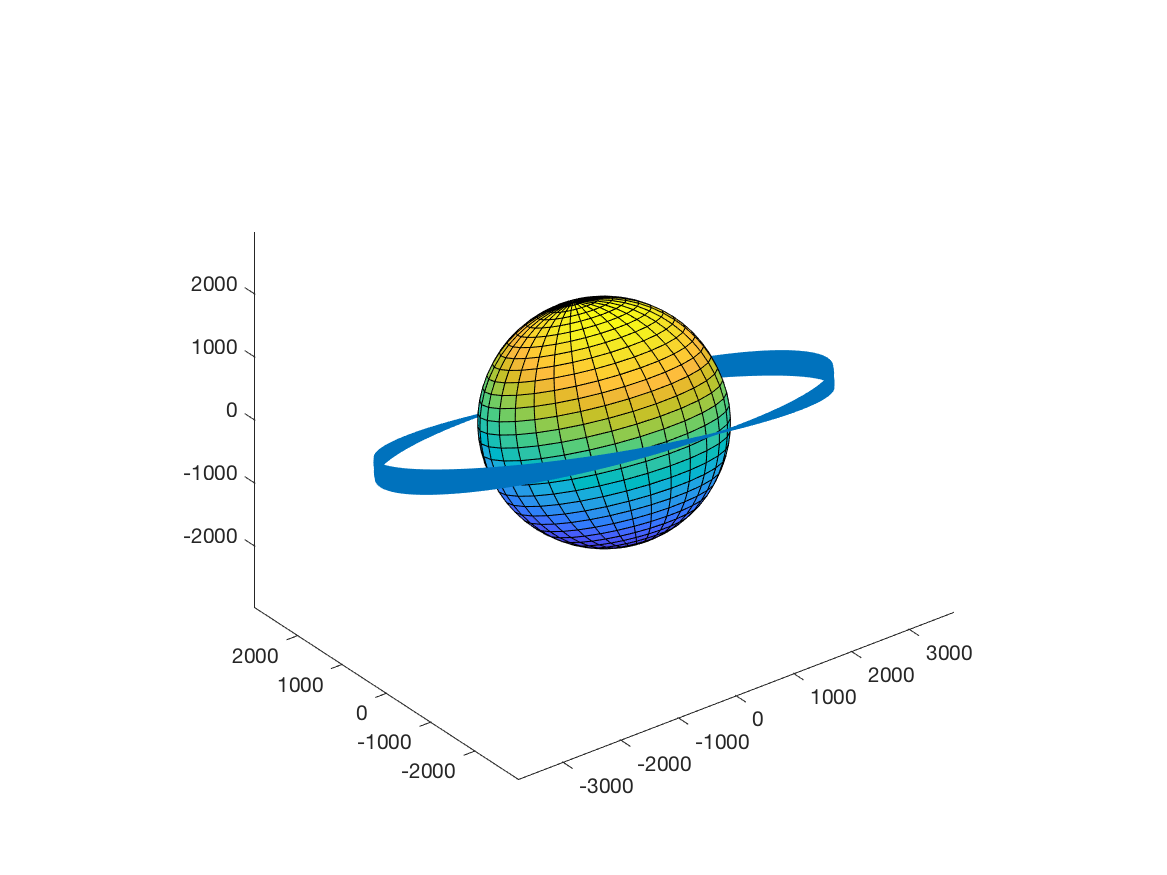
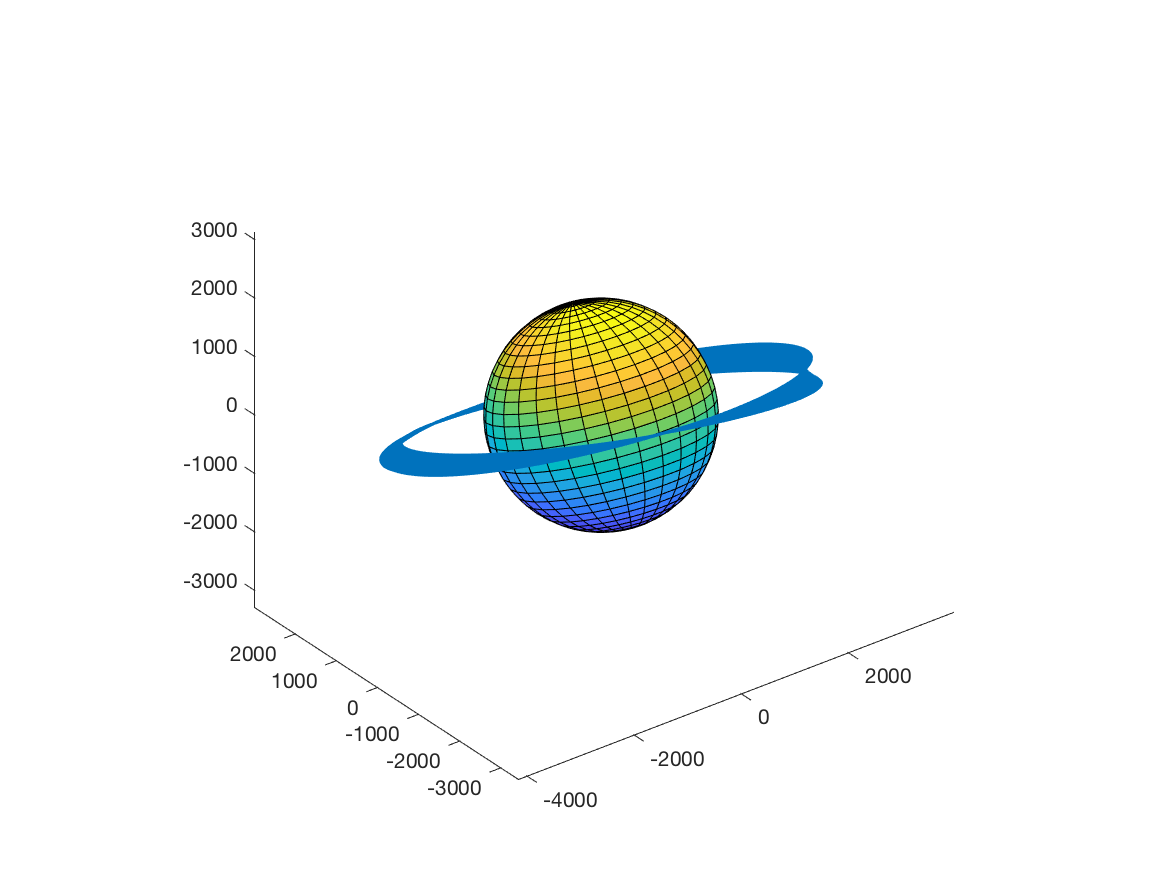
Added SRP force

diff --git a/sim_motion.m b/sim_motion.m
@@ -3,7 +3,7 @@ clear;
 close all;
 
 %Initial conditions
-global rho mu_m PM Re mu_e J_E J_M Fx Fy Fz MR;
+global rho mu_m PM Re mu_e J_E J_M Fx Fy Fz MR sa_A;
 % Planet Masses
 SM = 1.989e30;
 MerM = 330.2e21;
@@ -29,9 +29,10 @@ mu_e = G*EM;
 mu_m = 4902.80011526323;
 mu_s = G*SM;
 Re = 6378;
+sa_A = 625; %m2, area of solar array on DSG (1/4 ISS solar area area)
 
-global maint dvTime ref_r ref_i dv_sum dvMag dvType dv_count last_burn avg_rs avg_is;
-maint = 0; %enable to maintain the equatorial circular orbit around the Moon
+global maint dvTime ref_r ref_i dv_sum dvMag dvType dv_count last_burn avg_rs avg_is avg_es;
+maint = 1; %enable to maintain the equatorial circular orbit around the Moon
 dvTime = [];
 dvMag = [];
 dvType = [];
@@ -42,6 +43,7 @@ dv_count = 0;
 last_burn = 0;
 avg_rs = zeros(1,10);
 avg_is = zeros(1,10);
+avg_es = zeros(1,10);
 
 if (maint)
     mt = 'maint';
@@ -61,8 +63,8 @@ J5_M = 2.2378531356778999e-07;
 J_M = [J2_M,J3_M,J4_M,J5_M];
 
 N = 1000;
-te = 86400*180;
-%te = 86400*365.25;
+%te = 86400*180;
+te = 86400*310;
 dt = 60;
 options = odeset('AbsTol',1e-9,'RelTol',1e-7);
 
@@ -264,8 +266,8 @@ ylabel('Velocity (km/s)');
 fname = sprintf('Plots/%s_r_e_i_v_%i.png',mt,round(te/86400));
 print(fname,'-dpng');
 
-tofs = linspace(3*86400,10*86400,20);
-times = 1:2880:length(T_J);
+tofs = linspace(3*86400,10*86400,10);
+times = 1:(5*86400/60):length(T_J);
 [X,Y] = meshgrid(T_J(times),tofs);
 %Define circular parking orbit, 200 km altitude
 ri = Re + 200;
@@ -277,6 +279,7 @@ ri_J = Op_g*ri_p;
 vi_p = Op_g*vi_p;
 
 satdvs = zeros(size(Y));
+fprintf('Generating Earth to DSV delta-V matrix\n');
 for k = 1:size(X,2)
     for j = 1:size(Y,1)
         %Calculate Earth to DSG delta-V
@@ -284,16 +287,21 @@ for k = 1:size(X,2)
         indx = times(k);
         rdsg = Sat_X(indx,:) - Earth_X(indx,:);
         sv = Sat_V(indx,:) - Earth_V(indx,:);
-        [Vi,Vf] = lambertProblemBasicSolution(mu_e,ri_J',rdsg,Y(j));
+        try
+            [Vi,Vf] = lambertProblemBasicSolution(mu_e,ri_J',rdsg,Y(j));
+        catch
+            fprintf('1 TOF: %.3f\n',Y(j));
+        end
         satdvs(j,k) = abs(norm(Vi) - norm(vi_p)) + abs(norm(Vf) - norm(sv));
     end
 end
 
-tofs = linspace(0.5*365.25*86400,1.5*365.25*86400,100);
-times = 1:2880:length(T_J);
+tofs = linspace(0.5*365.25*86400,1.5*365.25*86400,50);
+times = 1:(5*86400/60):length(T_J);
 [X2,Y2] = meshgrid(T_J(times),tofs);
 emdvs = zeros(size(Y2));
 mmdvs = zeros(size(Y2));
+fprintf('Generating Earth to Mars and DSG to Mars delta-V matrices\n');
 for k = 1:size(X2,2)
     for j = 1:size(Y2,1)
         indx = times(k);
@@ -303,17 +311,22 @@ for k = 1:size(X2,2)
         ris = ri_J' + Earth_X(indx,:);
         vis = vi_p' + Earth_V(indx,:);
         
-        [emVi,emVf] = lambertProblemBasicSolution(mu_s,ris,Mars_X(indx,:),Y2(j));
-        emdv = abs(norm(emVi)-norm(vis)) + abs(norm(emVf)-norm(Mars_V(indx,:)));
+        try
+            [emVi,emVf] = lambertProblemBasicSolution(mu_s,ris,Mars_X(indx,:),Y2(j));
+            emdv = abs(norm(emVi)-norm(vis)) + abs(norm(emVf)-norm(Mars_V(indx,:)));
         
-        [mmVi,mmVf] = lambertProblemBasicSolution(mu_s,Sat_X(indx,:),Mars_X(indx,:),Y2(j));
-        mmdv = abs(norm(mmVi)-norm(Sat_V(indx,:))) + abs(norm(mmVf)-norm(Mars_V(indx,:)));
+            [mmVi,mmVf] = lambertProblemBasicSolution(mu_s,Sat_X(indx,:),Mars_X(indx,:),Y2(j));
+            mmdv = abs(norm(mmVi)-norm(Sat_V(indx,:))) + abs(norm(mmVf)-norm(Mars_V(indx,:)));
         
+        catch
+            continue;
+        end
         emdvs(j,k) = emdv;
         mmdvs(j,k) = mmdv;
     end
 end
 
+fprintf('Plotting\n');
 figure;
 contourf(X./86400,Y./86400,satdvs);
 c = colorbar;
@@ -350,11 +363,9 @@ ylabel('Transfer Time (days)');
 title('Delta-V Savings on Transfer from DSG to Mars vs. Earth to Mars');
 fname = sprintf('Plots/%s_diff_dvs_%i.png',mt,round(te/86400));
 print(fname,'-dpng');
-
-
 %% Functions
 function [T,X] = ode_helper(handle,start_time,stop_time,dt,X0g,options)
-global maint dvTime dvMag dvType dv_sum dv_count;
+global maint dvTime dvMag dvType dv_sum dv_count last_burn;
 T = [];
 X = [];
 if (maint)
@@ -437,6 +448,13 @@ if (maint)
                     dv = -dv_mag.*h./norm(h);
                     Sat_v = getv(X(end,:),'Sat','v') + dv;
                     X(end,34:36) = Sat_v;
+                elseif (type == 'e')
+                    r = getv(X(end,:),'Sat','r') - getv(X(end,:),'Moon','r');
+                    %v = getv(X(end,:),'Sat','v') - getv(X(end,:),'Moon','v');
+                    dv_mag = dvMag(1);
+                    dv = dv_mag.*r./norm(r);
+                    Sat_v = getv(X(end,:),'Sat','v') + dv;
+                    X(end,34:36) = Sat_v;
                 end
                 
                 %Remove burn
@@ -457,8 +475,8 @@ end
 end
 
 function Xdot = grav_J(t,x)
-global PM mu_e Fx Fy Fz Re J_E J_M MR mu_m;
-global maint dvTime dvMag ref_r ref_i last_burn avg_rs avg_is dvType;
+global PM mu_e Fx Fy Fz Re J_E J_M MR mu_m sa_A;
+global maint dvTime dvMag ref_r ref_i last_burn avg_rs avg_is dvType avg_es;
 
 Xdot = zeros(66,1);
 x = x';
@@ -482,6 +500,24 @@ a = calc_accel(M,X);
 
 Xdot(1:33) = x(34:66);
 
+%% SRP
+Ps = 4.56e-6; %N/m2
+ep = 0.21;
+rs = Sat_X - Sun_X; %km
+AU = 149.597870691e6;
+es = rs./norm(rs);
+F_srp = -Ps*AU^2/norm(rs)^2*sa_A*(1+ep).*es; %N
+F_srp = F_srp/1000; %kN
+%F_srp = 0;
+
+%Calculate if DSG is in eclipse
+rm = Sat_X - Moon_X;
+tsm = acos(dot(rs,rm)/norm(rs)/norm(rm));
+dist = norm(rm)*sin(tsm);
+if (dist < MR)
+    F_srp = 0;
+end
+
 %% J2 and J3 perturbation from Earth
 J2_E = J_E(1);
 J3_E = J_E(2);
@@ -504,7 +540,7 @@ Sat_grav_je = [Fx(J2_E,J3_E,J4_E,J5_E,Re,mu_e,rn,xp,y,z),...
 Sat_grav_jm = [Fx(J2_M,J3_M,J4_M,J5_M,MR,mu_m,rn,xp,y,z),...
     Fy(J2_M,J3_M,J4_M,J5_M,MR,mu_m,rn,xp,y,z),...
     Fz(J2_M,J3_M,J4_M,J5_M,MR,mu_m,rn,xp,y,z)];
-Xdot(34:36) = Sat_grav_a + Sat_grav_je + Sat_grav_jm; %sat
+Xdot(34:36) = Sat_grav_a + Sat_grav_je + Sat_grav_jm + F_srp./PM(1); %sat
 Xdot(37:39) = a(2,:); %sun
 Xdot(40:42) = a(3,:); %mercury
 Xdot(43:45) = a(4,:); %venus
@@ -530,6 +566,8 @@ if (maint)
     hm = cross(Moon_X,getv(x,'Moon','v'));
     mi = acos(dot(hm,[0,0,1])/norm(hm))*180/pi;
     i = si - mi; %deg
+    e = cross(v,h)./mu_m - r./norm(r);
+    thet = acosd(dot(r,e)./norm(r)./norm(e));
     
     [dec,~] = r_to_angles(r);
     dec = dec*180./pi; %deg
@@ -539,8 +577,12 @@ if (maint)
     
     avg_is(1) = [];
     avg_is(10) = i;
+    
+    avg_es(1) = [];
+    avg_es(10) = norm(e);
     rn = norm(r);
-    if (mean(avg_rs) < ref_r - 2 && isempty(dvTime) && t-last_burn > 300) %need to boost the radius
+    if (mean(avg_rs) < ref_r - 2 && isempty(dvTime) && t-last_burn > 300 ...
+            && mean(avg_es) < 0.02) %need to boost the radius
         ra = ref_r+1;
         a = (rn + ra)/2;
         vp = sqrt(2*mu_m/rn - mu_m/a);
@@ -559,16 +601,37 @@ if (maint)
             && dec < 0.01 && dec > -0.01) 
         dv = 2*norm(v)*sind(i/2);
         
-        e = cross(v,h)./mu_m - r./norm(r);
         P = norm(h)^2./mu_m;
         ra = P./(1-norm(e));
         a = ra./(1+norm(e));
         T = pi*a^1.5/sqrt(mu_m);
         
+        % This is a horrible hack but the signs for this inclination burn
+        % are wrong and I don't know why
+        if (t < 309*86400 && t > 308*86400)
+            dv = -dv;
+        end
         dvTime = [t,t+T];
         dvMag = [dv/2,-dv/2];
         dvType = ['i','i'];
         fprintf('Inc Burn at %.3f and %.3f\n',t./86400,(t+T)./86400);
+    elseif (mean(avg_es) > 0.02 && isempty(dvTime) && t-last_burn > 300 ...
+            && thet > -5 && thet < 5)
+        circ_v = sqrt(mu_m./rn);
+        P = norm(h)^2./mu_m;
+        ra = P./(1-norm(e));
+        va = h./ra;
+        
+        dv1 = abs(circ_v - norm(v));
+        dv2 = sqrt(mu_m./ra) - norm(va);
+        
+        new_E = 0.5*circ_v^2 - mu_m./rn;
+        new_a = -mu_m./new_E./2;
+        T = pi*new_a^1.5/sqrt(mu_m);
+        dvTime = [t,t+T];
+        dvMag = [dv1,dv2];
+        dvType = ['e','e'];
+        fprintf('Eccentricity Burn at %.3f and %.3f\n',t./86400,(t+T)./86400);
     end
 end
 end
